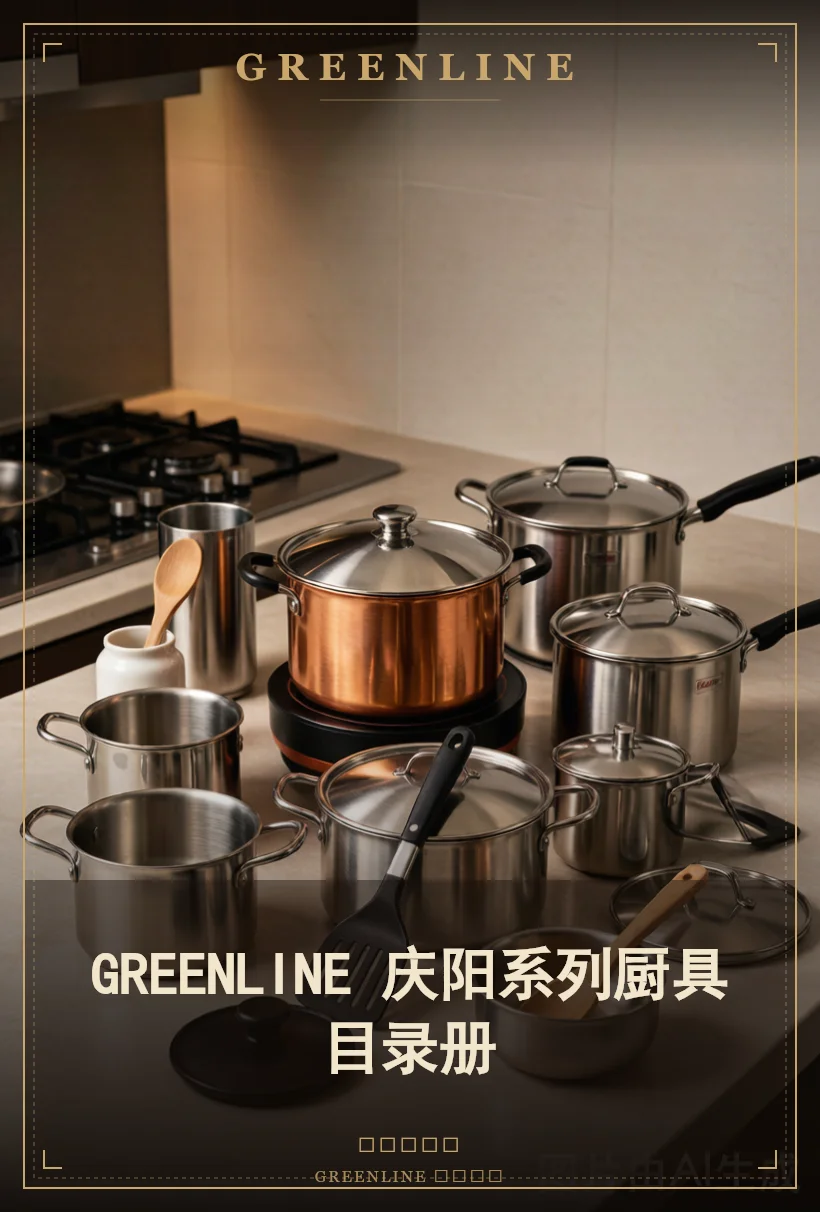
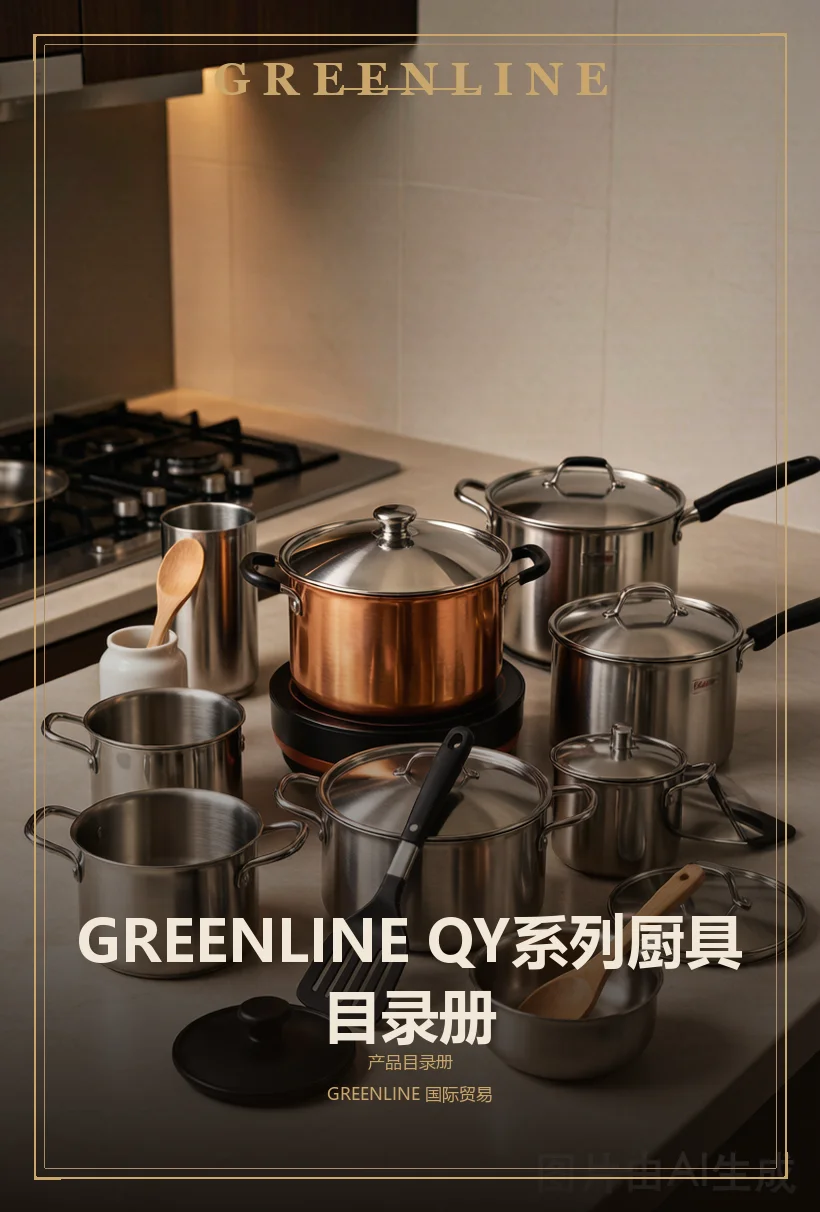
feat: sync workbuddy updates to home site (QY qingyang branding, drop gift/lounge catalogues)

diff --git a/catalog/qingyang/data.js b/catalog/qingyang/data.js
@@ -1,6 +1,6 @@
 window.FLIP = {
-  title_cn: "GREENLINE 庆阳系列厨具目录册",
-  title_en: "GREENLINE Qingyang Kitchenware Catalogue",
+  title_cn: "GREENLINE QY系列厨具目录册",
+  title_en: "GREENLINE QY Kitchenware Catalogue",
   total: 196,
   images: ["pages/full/p001.webp","pages/full/p002.webp","pages/full/p003.webp","pages/full/p004.webp","pages/full/p005.webp","pages/full/p006.webp","pages/full/p007.webp","pages/full/p008.webp","pages/full/p009.webp","pages/full/p010.webp","pages/full/p011.webp","pages/full/p012.webp","pages/full/p013.webp","pages/full/p014.webp","pages/full/p015.webp","pages/full/p016.webp","pages/full/p017.webp","pages/full/p018.webp","pages/full/p019.webp","pages/full/p020.webp","pages/full/p021.webp","pages/full/p022.webp","pages/full/p023.webp","pages/full/p024.webp","pages/full/p025.webp","pages/full/p026.webp","pages/full/p027.webp","pages/full/p028.webp","pages/full/p029.webp","pages/full/p030.webp","pages/full/p031.webp","pages/full/p032.webp","pages/full/p033.webp","pages/full/p034.webp","pages/full/p035.webp","pages/full/p036.webp","pages/full/p037.webp","pages/full/p038.webp","pages/full/p039.webp","pages/full/p040.webp","pages/full/p041.webp","pages/full/p042.webp","pages/full/p043.webp","pages/full/p044.webp","pages/full/p045.webp","pages/full/p046.webp","pages/full/p047.webp","pages/full/p048.webp","pages/full/p049.webp","pages/full/p050.webp","pages/full/p051.webp","pages/full/p052.webp","pages/full/p053.webp","pages/full/p054.webp","pages/full/p055.webp","pages/full/p056.webp","pages/full/p057.webp","pages/full/p058.webp","pages/full/p059.webp","pages/full/p060.webp","pages/full/p061.webp","pages/full/p062.webp","pages/full/p063.webp","pages/full/p064.webp","pages/full/p065.webp","pages/full/p066.webp","pages/full/p067.webp","pages/full/p068.webp","pages/full/p069.webp","pages/full/p070.webp","pages/full/p071.webp","pages/full/p072.webp","pages/full/p073.webp","pages/full/p074.webp","pages/full/p075.webp","pages/full/p076.webp","pages/full/p077.webp","pages/full/p078.webp","pages/full/p079.webp","pages/full/p080.webp","pages/full/p081.webp","pages/full/p082.webp","pages/full/p083.webp","pages/full/p084.webp","pages/full/p085.webp","pages/full/p086.webp","pages/full/p087.webp","pages/full/p088.webp","pages/full/p089.webp","pages/full/p090.webp","pages/full/p091.webp","pages/full/p092.webp","pages/full/p093.webp","pages/full/p094.webp","pages/full/p095.webp","pages/full/p096.webp","pages/full/p097.webp","pages/full/p098.webp","pages/full/p099.webp","pages/full/p100.webp","pages/full/p101.webp","pages/full/p102.webp","pages/full/p103.webp","pages/full/p104.webp","pages/full/p105.webp","pages/full/p106.webp","pages/full/p107.webp","pages/full/p108.webp","pages/full/p109.webp","pages/full/p110.webp","pages/full/p111.webp","pages/full/p112.webp","pages/full/p113.webp","pages/full/p114.webp","pages/full/p115.webp","pages/full/p116.webp","pages/full/p117.webp","pages/full/p118.webp","pages/full/p119.webp","pages/full/p120.webp","pages/full/p121.webp","pages/full/p122.webp","pages/full/p123.webp","pages/full/p124.webp","pages/full/p125.webp","pages/full/p126.webp","pages/full/p127.webp","pages/full/p128.webp","pages/full/p129.webp","pages/full/p130.webp","pages/full/p131.webp","pages/full/p132.webp","pages/full/p133.webp","pages/full/p134.webp","pages/full/p135.webp","pages/full/p136.webp","pages/full/p137.webp","pages/full/p138.webp","pages/full/p139.webp","pages/full/p140.webp","pages/full/p141.webp","pages/full/p142.webp","pages/full/p143.webp","pages/full/p144.webp","pages/full/p145.webp","pages/full/p146.webp","pages/full/p147.webp","pages/full/p148.webp","pages/full/p149.webp","pages/full/p150.webp","pages/full/p151.webp","pages/full/p152.webp","pages/full/p153.webp","pages/full/p154.webp","pages/full/p155.webp","pages/full/p156.webp","pages/full/p157.webp","pages/full/p158.webp","pages/full/p159.webp","pages/full/p160.webp","pages/full/p161.webp","pages/full/p162.webp","pages/full/p163.webp","pages/full/p164.webp","pages/full/p165.webp","pages/full/p166.webp","pages/full/p167.webp","pages/full/p168.webp","pages/full/p169.webp","pages/full/p170.webp","pages/full/p171.webp","pages/full/p172.webp","pages/full/p173.webp","pages/full/p174.webp","pages/full/p175.webp","pages/full/p176.webp","pages/full/p177.webp","pages/full/p178.webp","pages/full/p179.webp","pages/full/p180.webp","pages/full/p181.webp","pages/full/p182.webp","pages/full/p183.webp","pages/full/p184.webp","pages/full/p185.webp","pages/full/p186.webp","pages/full/p187.webp","pages/full/p188.webp","pages/full/p189.webp","pages/full/p190.webp","pages/full/p191.webp","pages/full/p192.webp","pages/full/p193.webp","pages/full/p194.webp","pages/full/p195.webp","pages/full/p196.webp"],
   thumbs: ["pages/thumbs/p001.webp","pages/thumbs/p002.webp","pages/thumbs/p003.webp","pages/thumbs/p004.webp","pages/thumbs/p005.webp","pages/thumbs/p006.webp","pages/thumbs/p007.webp","pages/thumbs/p008.webp","pages/thumbs/p009.webp","pages/thumbs/p010.webp","pages/thumbs/p011.webp","pages/thumbs/p012.webp","pages/thumbs/p013.webp","pages/thumbs/p014.webp","pages/thumbs/p015.webp","pages/thumbs/p016.webp","pages/thumbs/p017.webp","pages/thumbs/p018.webp","pages/thumbs/p019.webp","pages/thumbs/p020.webp","pages/thumbs/p021.webp","pages/thumbs/p022.webp","pages/thumbs/p023.webp","pages/thumbs/p024.webp","pages/thumbs/p025.webp","pages/thumbs/p026.webp","pages/thumbs/p027.webp","pages/thumbs/p028.webp","pages/thumbs/p029.webp","pages/thumbs/p030.webp","pages/thumbs/p031.webp","pages/thumbs/p032.webp","pages/thumbs/p033.webp","pages/thumbs/p034.webp","pages/thumbs/p035.webp","pages/thumbs/p036.webp","pages/thumbs/p037.webp","pages/thumbs/p038.webp","pages/thumbs/p039.webp","pages/thumbs/p040.webp","pages/thumbs/p041.webp","pages/thumbs/p042.webp","pages/thumbs/p043.webp","pages/thumbs/p044.webp","pages/thumbs/p045.webp","pages/thumbs/p046.webp","pages/thumbs/p047.webp","pages/thumbs/p048.webp","pages/thumbs/p049.webp","pages/thumbs/p050.webp","pages/thumbs/p051.webp","pages/thumbs/p052.webp","pages/thumbs/p053.webp","pages/thumbs/p054.webp","pages/thumbs/p055.webp","pages/thumbs/p056.webp","pages/thumbs/p057.webp","pages/thumbs/p058.webp","pages/thumbs/p059.webp","pages/thumbs/p060.webp","pages/thumbs/p061.webp","pages/thumbs/p062.webp","pages/thumbs/p063.webp","pages/thumbs/p064.webp","pages/thumbs/p065.webp","pages/thumbs/p066.webp","pages/thumbs/p067.webp","pages/thumbs/p068.webp","pages/thumbs/p069.webp","pages/thumbs/p070.webp","pages/thumbs/p071.webp","pages/thumbs/p072.webp","pages/thumbs/p073.webp","pages/thumbs/p074.webp","pages/thumbs/p075.webp","pages/thumbs/p076.webp","pages/thumbs/p077.webp","pages/thumbs/p078.webp","pages/thumbs/p079.webp","pages/thumbs/p080.webp","pages/thumbs/p081.webp","pages/thumbs/p082.webp","pages/thumbs/p083.webp","pages/thumbs/p084.webp","pages/thumbs/p085.webp","pages/thumbs/p086.webp","pages/thumbs/p087.webp","pages/thumbs/p088.webp","pages/thumbs/p089.webp","pages/thumbs/p090.webp","pages/thumbs/p091.webp","pages/thumbs/p092.webp","pages/thumbs/p093.webp","pages/thumbs/p094.webp","pages/thumbs/p095.webp","pages/thumbs/p096.webp","pages/thumbs/p097.webp","pages/thumbs/p098.webp","pages/thumbs/p099.webp","pages/thumbs/p100.webp","pages/thumbs/p101.webp","pages/thumbs/p102.webp","pages/thumbs/p103.webp","pages/thumbs/p104.webp","pages/thumbs/p105.webp","pages/thumbs/p106.webp","pages/thumbs/p107.webp","pages/thumbs/p108.webp","pages/thumbs/p109.webp","pages/thumbs/p110.webp","pages/thumbs/p111.webp","pages/thumbs/p112.webp","pages/thumbs/p113.webp","pages/thumbs/p114.webp","pages/thumbs/p115.webp","pages/thumbs/p116.webp","pages/thumbs/p117.webp","pages/thumbs/p118.webp","pages/thumbs/p119.webp","pages/thumbs/p120.webp","pages/thumbs/p121.webp","pages/thumbs/p122.webp","pages/thumbs/p123.webp","pages/thumbs/p124.webp","pages/thumbs/p125.webp","pages/thumbs/p126.webp","pages/thumbs/p127.webp","pages/thumbs/p128.webp","pages/thumbs/p129.webp","pages/thumbs/p130.webp","pages/thumbs/p131.webp","pages/thumbs/p132.webp","pages/thumbs/p133.webp","pages/thumbs/p134.webp","pages/thumbs/p135.webp","pages/thumbs/p136.webp","pages/thumbs/p137.webp","pages/thumbs/p138.webp","pages/thumbs/p139.webp","pages/thumbs/p140.webp","pages/thumbs/p141.webp","pages/thumbs/p142.webp","pages/thumbs/p143.webp","pages/thumbs/p144.webp","pages/thumbs/p145.webp","pages/thumbs/p146.webp","pages/thumbs/p147.webp","pages/thumbs/p148.webp","pages/thumbs/p149.webp","pages/thumbs/p150.webp","pages/thumbs/p151.webp","pages/thumbs/p152.webp","pages/thumbs/p153.webp","pages/thumbs/p154.webp","pages/thumbs/p155.webp","pages/thumbs/p156.webp","pages/thumbs/p157.webp","pages/thumbs/p158.webp","pages/thumbs/p159.webp","pages/thumbs/p160.webp","pages/thumbs/p161.webp","pages/thumbs/p162.webp","pages/thumbs/p163.webp","pages/thumbs/p164.webp","pages/thumbs/p165.webp","pages/thumbs/p166.webp","pages/thumbs/p167.webp","pages/thumbs/p168.webp","pages/thumbs/p169.webp","pages/thumbs/p170.webp","pages/thumbs/p171.webp","pages/thumbs/p172.webp","pages/thumbs/p173.webp","pages/thumbs/p174.webp","pages/thumbs/p175.webp","pages/thumbs/p176.webp","pages/thumbs/p177.webp","pages/thumbs/p178.webp","pages/thumbs/p179.webp","pages/thumbs/p180.webp","pages/thumbs/p181.webp","pages/thumbs/p182.webp","pages/thumbs/p183.webp","pages/thumbs/p184.webp","pages/thumbs/p185.webp","pages/thumbs/p186.webp","pages/thumbs/p187.webp","pages/thumbs/p188.webp","pages/thumbs/p189.webp","pages/thumbs/p190.webp","pages/thumbs/p191.webp","pages/thumbs/p192.webp","pages/thumbs/p193.webp","pages/thumbs/p194.webp","pages/thumbs/p195.webp","pages/thumbs/p196.webp"],

diff --git a/catalog/catalogs.js b/catalog/catalogs.js
@@ -97,18 +97,6 @@ window.CATALOGS = [
     "pages": 256
   },
   {
-    "id": "gift",
-    "folder": "gift",
-    "category": "gift",
-    "title_cn": "礼品定制手册",
-    "title_en": "Custom Gift Handbook",
-    "desc_cn": "徽章 · 奖杯 · 纪念币 · 文创礼品 · 企业定制",
-    "desc_en": "Badges · trophies · medals · creative gifts · corporate customization",
-    "cover_cn": "gift/cover_cn.webp",
-    "cover_en": "gift/cover_en.webp",
-    "pages": 4
-  },
-  {
     "id": "bbq",
     "folder": "bbq",
     "category": "home",
@@ -119,18 +107,6 @@ window.CATALOGS = [
     "cover_cn": "bbq/cover_cn.webp",
     "cover_en": "bbq/cover_en.webp",
     "pages": 38
-  },
-  {
-    "id": "olive",
-    "folder": "olive",
-    "category": "gift",
-    "title_cn": "GREENLINE 环保餐具目录册",
-    "title_en": "GREENLINE Eco Tableware Catalogue",
-    "desc_cn": "可降解环保餐具 · 餐盒 · 杯碗 · 刀叉勺",
-    "desc_en": "Biodegradable eco tableware · containers · cups · bowls · cutlery",
-    "cover_cn": "olive/cover_cn.webp",
-    "cover_en": "olive/cover_en.webp",
-    "pages": 4
   },
   {
     "id": "tablechair",
@@ -145,18 +121,6 @@ window.CATALOGS = [
     "pages": 70
   },
   {
-    "id": "lounge",
-    "folder": "lounge",
-    "category": "home",
-    "title_cn": "户外家具目录册",
-    "title_en": "Outdoor Furniture Catalogue",
-    "desc_cn": "户外躺椅 · 休闲家具 · 遮阳伞 · 户外沙发套装",
-    "desc_en": "Outdoor lounge chairs · leisure furniture · parasols · outdoor sofa sets",
-    "cover_cn": "lounge/cover_cn.webp",
-    "cover_en": "lounge/cover_en.webp",
-    "pages": 2
-  },
-  {
     "id": "floral",
     "folder": "floral",
     "category": "home",
@@ -167,18 +131,6 @@ window.CATALOGS = [
     "cover_cn": "floral/cover_cn.webp",
     "cover_en": "floral/cover_en.webp",
     "pages": 55
-  },
-  {
-    "id": "christmas",
-    "folder": "christmas",
-    "category": "gift",
-    "title_cn": "圣诞节日用品目录册",
-    "title_en": "Christmas Items Catalogue",
-    "desc_cn": "GREENLINE 圣诞节日装饰与礼品目录册。",
-    "desc_en": "GREENLINE Christmas items and decorations catalogue.",
-    "cover_cn": "christmas/cover_cn.webp",
-    "cover_en": "christmas/cover_en.webp",
-    "pages": 9
   },
   {
     "id": "knifeset",
@@ -217,7 +169,6 @@ window.CATALOGS = [
     "pages": 140
   }
 ];
-
 window.CATALOG_CATS = {
   "home": {
     "cn": "家居家装",

diff --git a/catalog/qingyang/index.html b/catalog/qingyang/index.html
@@ -184,8 +184,8 @@
     <div class="brand">
       <div class="logo">GREENLINE</div>
       <div class="title-group">
-        <div class="title-main">GREENLINE 庆阳系列厨具目录册</div>
-        <div class="title-sub">GREENLINE Qingyang Kitchenware Catalogue</div>
+        <div class="title-main">GREENLINE QY系列厨具目录册</div>
+        <div class="title-sub">GREENLINE QY Kitchenware Catalogue</div>
       </div>
     </div>
     <div class="controls">
